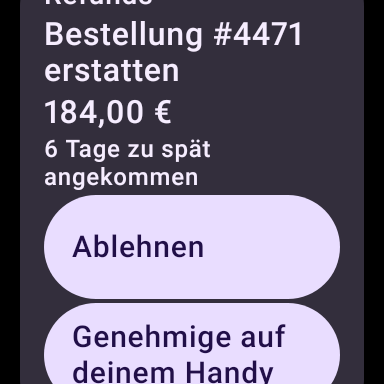
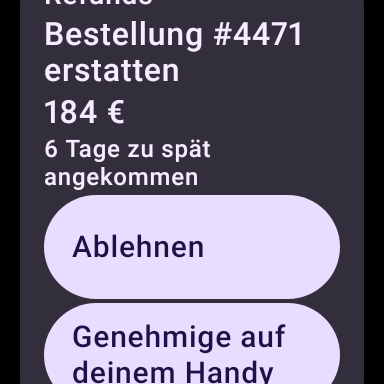
Wear OS screenshots: the amount as the watch shows it

Changed region(s): [[0.25, 0.25, 0.375, 0.3438], [0.4062, 0.25, 0.4375, 0.3438]]

diff --git a/android/wear/src/test/kotlin/bot/tafs/wear/WearStoreScreenshots.kt b/android/wear/src/test/kotlin/bot/tafs/wear/WearStoreScreenshots.kt
@@ -61,8 +61,15 @@ class WearStoreScreenshots(private val language: String, private val playLocale:
 
   private val actions = Actions({}, {}, {}, {}, {}, {}, {}, {}, {}, {}, {})
 
-  private fun euros(amount: Int): String =
-    NumberFormat.getCurrencyInstance(Locale.forLanguageTag(language)).apply { currency = Currency.getInstance("EUR") }.format(amount)
+  /**
+   * A whole amount in euros, written as the watch shows it: the phone sends `Money.formatted`, which writes a whole amount with no
+   * cents in the app's language ("€184", "184 €"), and the watch draws that string as it comes.
+   */
+  private fun euros(amount: Int): String = NumberFormat.getCurrencyInstance(Locale.forLanguageTag(language)).apply {
+    currency = Currency.getInstance("EUR")
+    minimumFractionDigits = 0
+    maximumFractionDigits = 0
+  }.format(amount)
 
   private fun read(): WatchModel.Shown.Read {
     val refund = HeldLine(

diff --git a/docs/watch-wear.md b/docs/watch-wear.md
@@ -106,7 +106,7 @@ counts up by one from 400,000,001** (`android/wear/build.gradle.kts`), so the tw
 **The store screenshots** (`WearStoreScreenshots`): the watch's real screen, drawn on the JVM (Robolectric and Roborazzi,
 test-only) in each of the 8 languages, round, 384 × 384 px, the smallest size Play takes for Wear OS. They're filled with the
 phone app's own sample tafs and words (`app/strings/<lang>/sample.json`, `taf.json`) and the watch's own strings, with
-nothing drawn over them. Three per language, into `android/play/wear-screenshots/<locale>/`:
+nothing drawn over them. The amount is written as the phone sends it (`Money.formatted`: a whole amount has no cents). Three per language, into `android/play/wear-screenshots/<locale>/`:
 - `1-needs-you`: a held refund, with Refuse and Approve on your phone;
 - `2-refused`: what the wrist says once it's refused;
 - `3-halt-all`: Halt all, asked once more.
